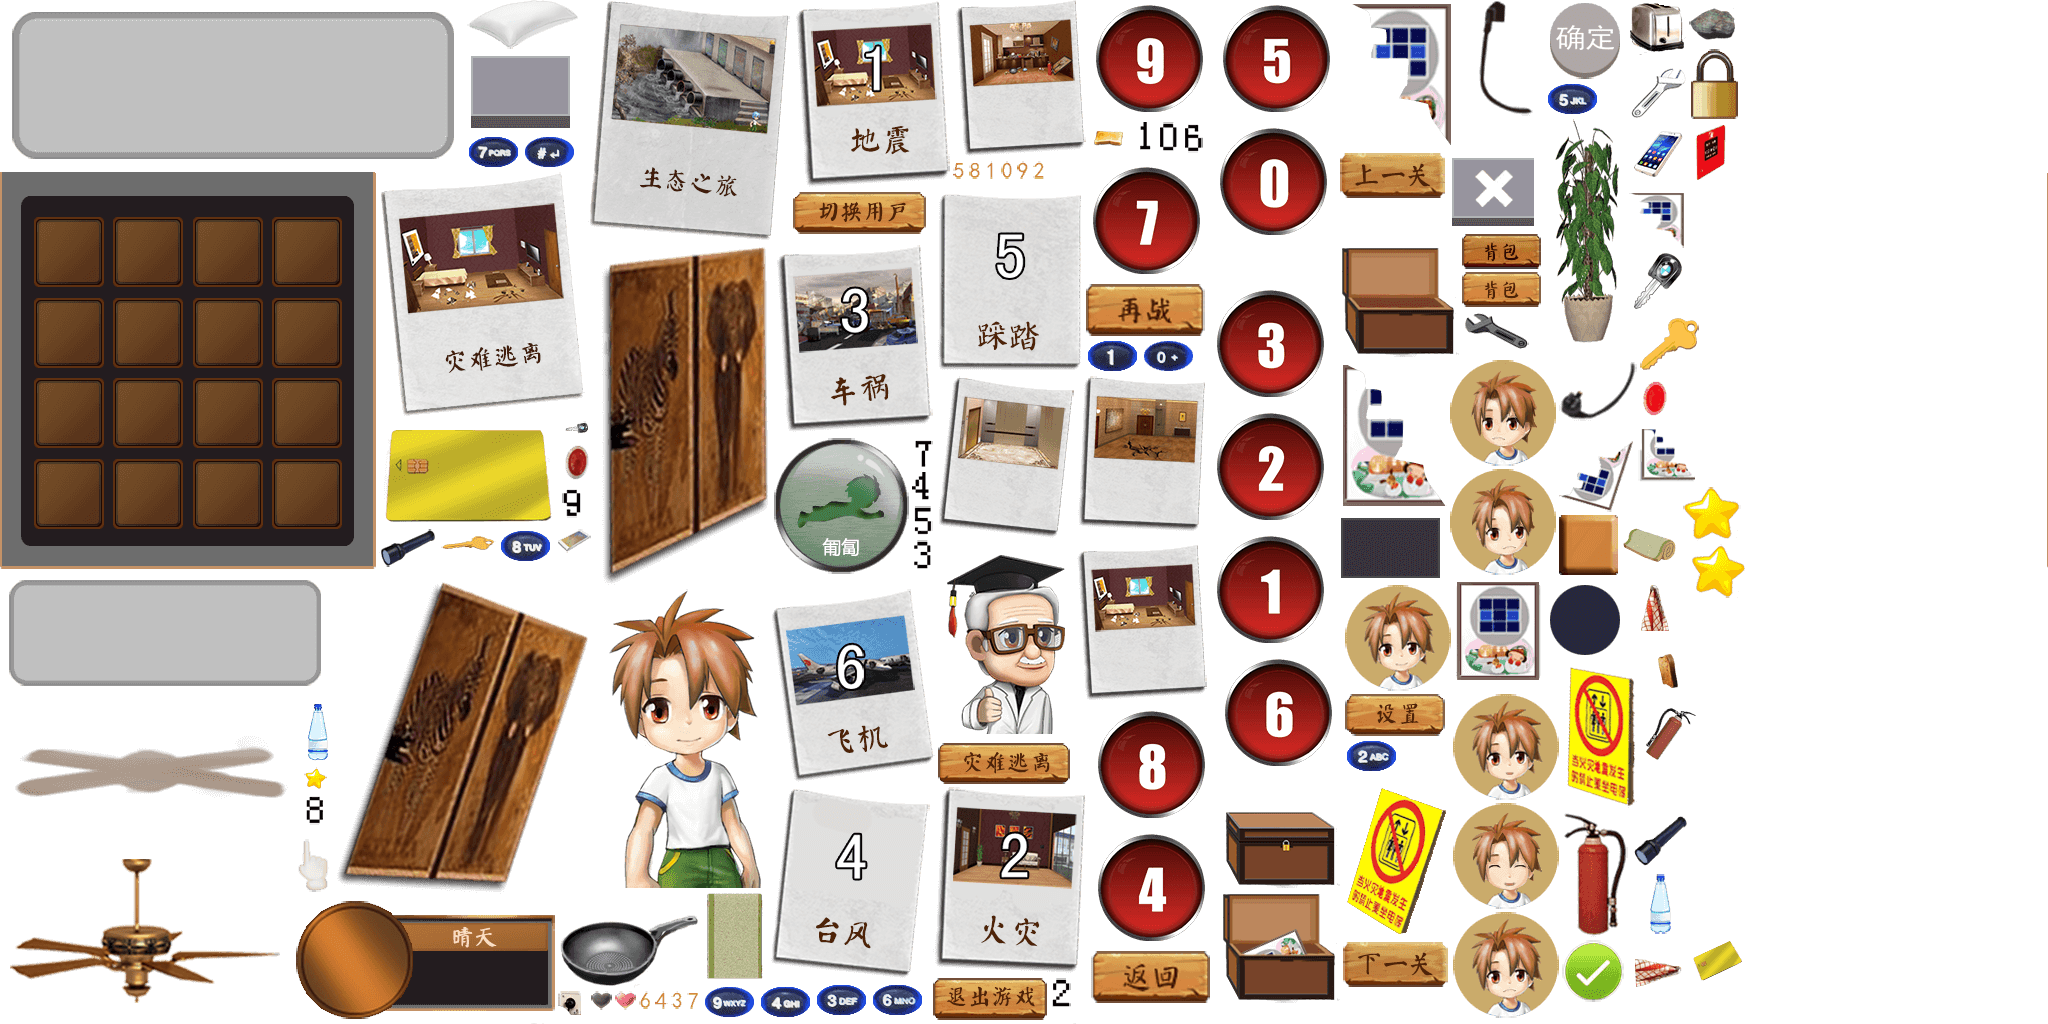
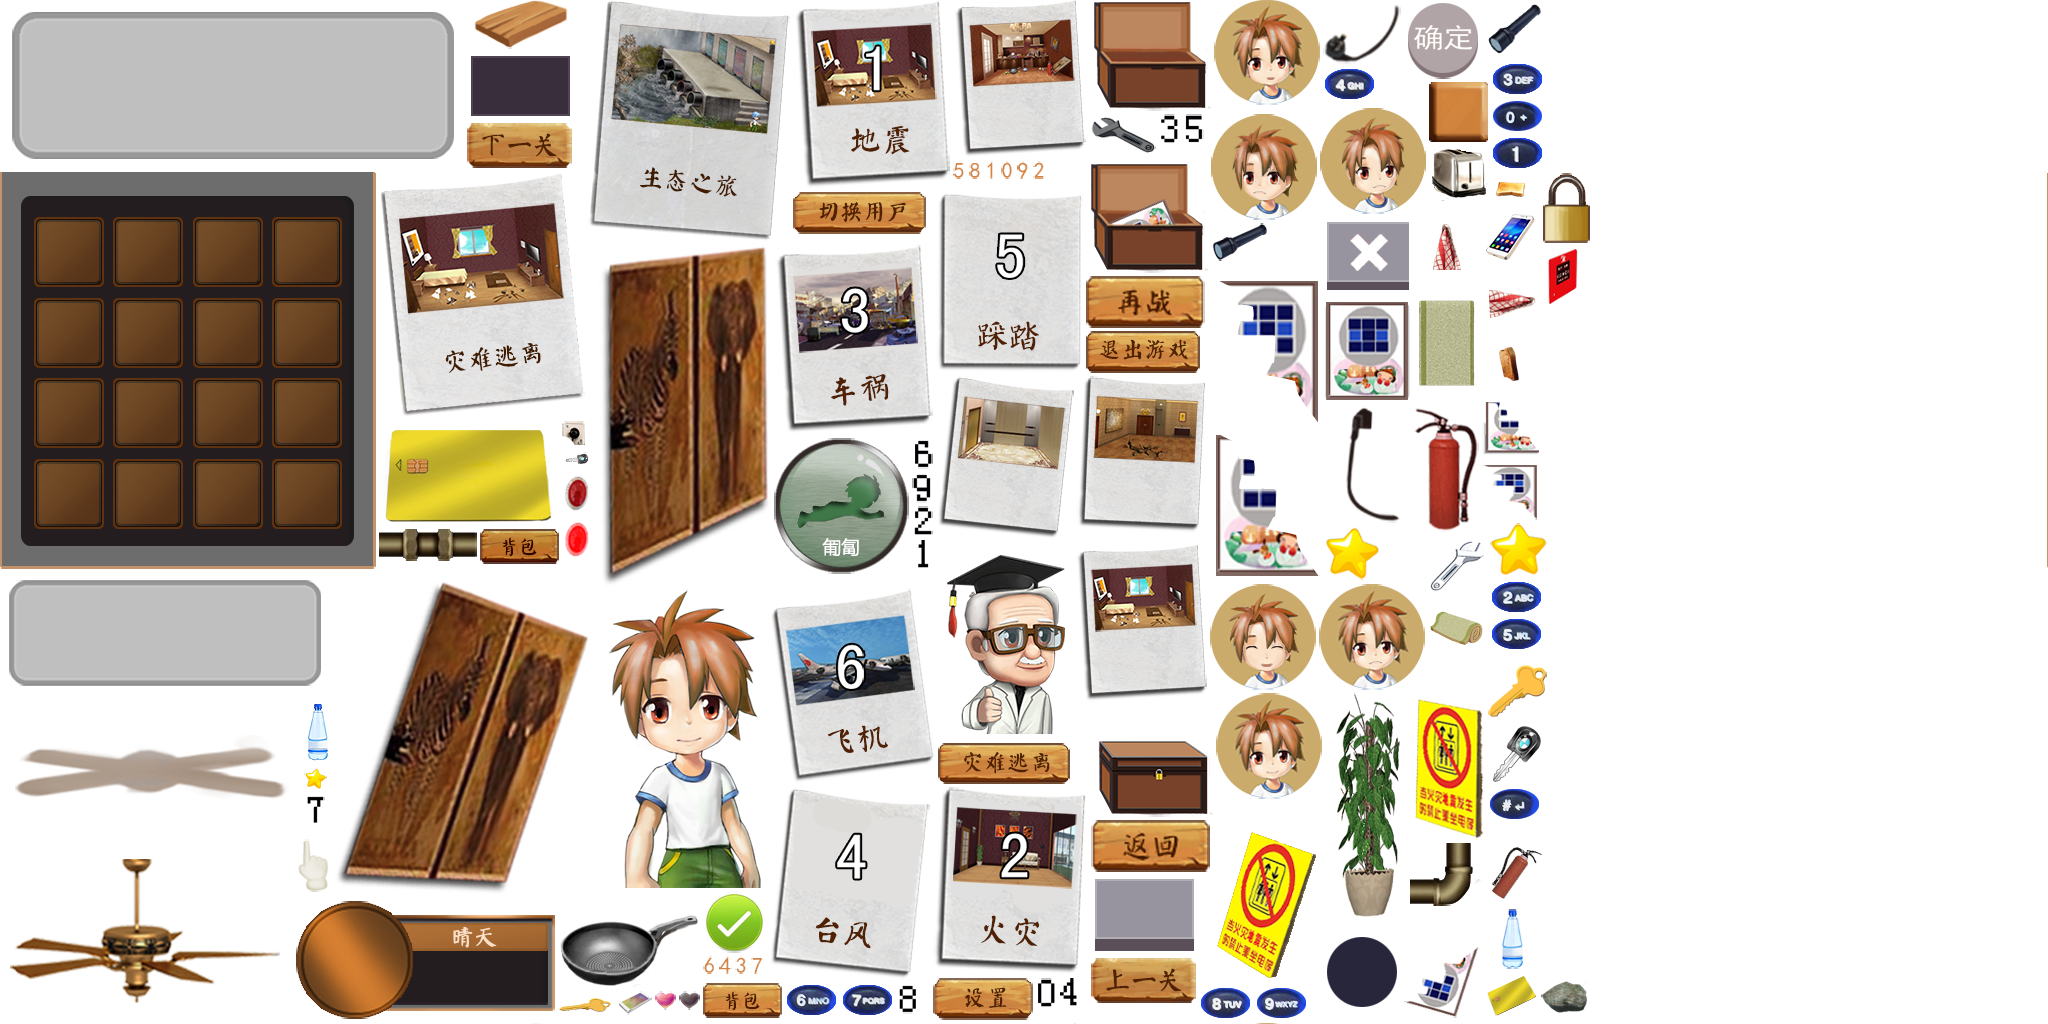
add pipe png

diff --git a/bak/js/data/configdata.js b/bak/js/data/configdata.js
@@ -15,7 +15,7 @@ game.configdata = new function(){
 	//loading images
 	self.DOWNLOADLIST_PNGS = ['bedroomafter.png', 'bedroombefore.png', 'boyactions.png', 'breakbridge.png', 'carglass.png', 'carmeter.png', 'carsafetybelt.png', 'circlebridge.png', 'cookieroom.png', 'corridor.png', 'corridorrbg.png', 'depot.png', 'drawer.png', 'effect2.png', 'effects.png', 'fallobjs.png', 'firecorridor.jpg', 'fireglassbg.png', 'gameover.png', 'gasolinecar.png', 'hfireeffect.png', 'interlude.png', 'mainbg.png', 'passwordbg.png', 'right.png', 'saloon.png', 'shakecorridor.jpg', 'telbg.png', 'uimap.png', 'washroombg.png', 'waterbasin.jpg', 'wwboyactions.png'];
 	//objects
-	self.IMAGEDATA_1 = {"telnum02":[1051,979,19,29],"pass04":[770,788,159,191],"flower":[1545,120,80,232],"ragicon":[1628,579,57,58],"iconnum06":[1219,654,122,118],"lockbox":[1219,777,120,110],"halfpic01":[1344,0,108,149],"wallpaper02":[600,246,170,339],"backbtn":[1092,952,117,50],"pankey":[442,530,53,26],"holepic":[1455,579,87,103],"tel6":[872,984,51,32],"overhalfpic":[1560,425,74,86],"iconnum00":[1214,123,122,118],"right":[1563,941,60,60],"tel8":[500,530,51,32],"pass05":[937,193,145,179],"smallplug":[559,992,28,26],"bedroompass":[1076,544,130,157],"plug2":[1560,357,76,63],"annihilator":[1563,812,64,124],"headicon2":[1346,586,104,104],"iphone":[556,530,34,22],"boxkeyicon":[1641,315,57,58],"telnum06":[1183,123,19,29],"telnum09":[563,488,19,29],"towelicon":[1622,516,57,58],"toolsbg":[0,173,375,395],"whitenum09":[1018,162,11,16],"iconnum05":[1217,0,122,118],"iconnum09":[1090,0,122,118],"nextpass":[1344,943,103,43],"ragonfloor":[1628,941,57,58],"spannericon":[1630,63,57,58],"pan":[559,902,140,85],"telnum03":[913,541,19,29],"telnum00":[1159,123,19,29],"tel7":[468,136,51,32],"hand_001":[297,840,33,51],"whitenum02":[1034,162,11,16],"whitenum03":[672,992,11,16],"iconnum01":[1211,531,122,118],"firelamp2":[1641,378,28,41],"whitenum07":[688,992,11,16],"toaster":[1628,0,57,58],"tel5":[1547,83,51,32],"breadicon":[1641,642,57,58],"pass02":[934,788,153,186],"passbtndown":[468,53,106,78],"tel4":[760,986,51,32],"fanshader":[0,701,300,134],"iconnum03":[1211,285,122,118],"iconnum02":[1211,408,122,118],"prepass":[1341,154,103,43],"whitenum05":[954,162,11,16],"breadonfloor":[1090,123,40,30],"pass03":[775,246,157,188],"tilebg":[0,573,330,123],"telnum08":[305,795,19,29],"firewarnbtn":[1692,123,36,60],"plug1":[1457,0,85,115],"headok01":[1454,695,104,104],"drinkicon":[1632,875,57,58],"boy":[600,590,165,297],"telnum04":[913,473,19,29],"doctorhead":[939,544,132,195],"halfpic02":[1338,361,108,149],"headfail0":[1454,913,104,104],"ceilingfan1":[0,840,292,171],"headbg":[297,902,257,116],"wallpaper01":[335,573,260,324],"whitenum06":[640,992,11,16],"openbox":[1219,892,120,110],"heart02":[616,992,19,17],"pillow":[468,0,111,48],"whitenum00":[1002,162,11,16],"headfail2":[1454,913,104,104],"warnpaper01":[1563,662,73,145],"suo":[1692,50,45,68],"tel9":[704,986,51,32],"doorcard":[380,422,178,103],"bedroomglim":[380,530,57,36],"start01":[1690,545,56,52],"tryagain":[1087,285,117,50],"tel0":[1143,340,51,32],"surebtn2":[1547,579,76,78],"doctorbg":[0,0,463,168],"emptybox":[1338,246,120,110],"storebtn2":[1463,273,77,33],"phoneicon":[1630,126,57,58],"start02":[1684,488,56,52],"firelamp1":[563,442,28,41],"iconnum07":[1087,162,122,118],"tel3":[816,984,51,32],"surebtn1":[1547,0,76,78],"corridorpass":[1078,377,128,155],"carkey":[563,422,28,15],"headfail3":[1451,470,104,104],"whitenum04":[656,992,11,16],"quitbt":[934,979,112,40],"iconnum08":[1092,706,122,118],"pass06":[770,590,164,193],"warnpaper02":[1344,777,105,161],"liftpass":[937,377,136,162],"telnum05":[913,507,19,29],"crawlbtn":[775,439,133,134],"panspanner":[1463,311,65,40],"whitenum08":[970,162,11,16],"iconnum04":[1092,829,122,118],"telenter":[524,136,51,32],"killfireicon":[1641,705,57,58],"cookiepass":[954,0,131,157],"telnum07":[913,439,19,29],"pass01":[794,0,155,188],"carkeyicon":[1630,252,57,58],"towel":[704,892,61,89],"btnchangeuser":[794,193,131,40],"whitenum01":[986,162,11,16],"stoneicon":[1690,0,50,45],"setup":[1346,695,98,40],"tel1":[1087,340,51,32],"tel2":[1346,740,51,32],"bedroomdrink":[305,701,25,62],"largepass02":[380,173,204,244],"telnum01":[1135,123,19,29],"pass01btn":[939,744,130,39],"largepass01":[589,0,200,241],"storebtn1":[1463,235,77,33],"halfpic01icon":[1639,425,57,58],"smallstar":[305,768,21,22],"doorcardicon":[1690,938,53,45],"shader":[1560,516,57,58],"heart01":[592,992,19,17],"halfpic02icon":[1630,189,57,58],"lockpanelexit":[1449,154,91,76],"passbtnup":[1338,515,106,66],"headfail1":[1451,361,104,104],"glimicon":[1632,812,57,58],"headok02":[1454,804,104,104]};
+	self.IMAGEDATA_1 = {"telnum02":[913,507,19,29],"pass04":[770,788,159,191],"flower":[1326,694,80,232],"ragicon":[1420,218,57,58],"lockbox":[1092,706,120,110],"halfpic01":[1211,277,108,149],"wallpaper02":[600,246,170,339],"backbtn":[1092,821,117,50],"tel1":[1492,137,51,32],"pankey":[559,992,53,26],"holepic":[1324,299,87,103],"tel6":[786,984,51,32],"overhalfpic":[1405,931,74,86],"right":[704,892,60,60],"tel8":[1200,987,51,32],"pass05":[937,193,145,179],"btnchangeuser":[794,193,131,40],"plug2":[1324,0,76,63],"annihilator":[1414,407,64,124],"headicon2":[1217,694,104,104],"iphone":[617,992,34,22],"boxkeyicon":[1489,662,57,58],"telnum06":[913,439,19,29],"telnum09":[913,473,19,29],"towelicon":[1429,599,57,58],"toolsbg":[0,173,375,395],"whitenum09":[1018,162,11,16],"nextpass":[468,124,103,43],"ragonfloor":[1482,272,57,58],"pan":[559,902,140,85],"telnum03":[1160,115,19,29],"telnum00":[1037,979,19,29],"tel7":[842,984,51,32],"hand_001":[297,840,33,51],"whitenum02":[1034,162,11,16],"whitenum03":[736,957,11,16],"firelamp2":[563,519,28,41],"whitenum07":[752,957,11,16],"toaster":[1430,146,57,58],"tel5":[1491,618,51,32],"breadicon":[1482,335,57,58],"pass02":[934,788,153,186],"passbtndown":[1092,876,106,78],"tel4":[1324,68,51,32],"fanshader":[0,701,300,134],"prepass":[1092,959,103,43],"pipe":[380,530,96,30],"whitenum05":[954,162,11,16],"breadonfloor":[1492,174,40,30],"pass03":[775,246,157,188],"tilebg":[0,573,330,123],"telnum08":[898,984,19,29],"firewarnbtn":[1544,247,36,60],"plug1":[1324,407,85,115],"headok01":[1215,0,104,104],"drinkicon":[1484,910,57,58],"boy":[600,590,165,297],"telnum04":[1061,979,19,29],"doctorhead":[939,544,132,195],"halfpic02":[1211,431,108,149],"headfail0":[1320,585,104,104],"ceilingfan1":[0,840,292,171],"headbg":[297,902,257,116],"wallpaper01":[335,573,260,324],"whitenum06":[704,957,11,16],"openbox":[1087,162,120,110],"heart02":[656,992,19,17],"pillow":[468,0,111,48],"whitenum00":[1002,162,11,16],"headfail2":[1320,585,104,104],"warnpaper01":[1411,694,73,145],"suo":[1544,174,45,68],"tel9":[1256,987,51,32],"doorcard":[380,422,178,103],"bedroomglim":[1212,224,57,36],"start01":[1324,527,56,52],"tryagain":[1087,277,117,50],"tel0":[1492,100,51,32],"surebtn2":[1324,931,76,78],"doctorbg":[0,0,463,168],"emptybox":[1090,0,120,110],"storebtn2":[704,984,77,33],"phoneicon":[1482,209,57,58],"start02":[1491,524,56,52],"firelamp1":[563,473,28,41],"spannericon":[1429,536,57,58],"tel3":[1492,63,51,32],"surebtn1":[1405,0,76,78],"corridorpass":[1078,377,128,155],"carkey":[563,453,28,15],"headfail3":[1321,109,104,104],"whitenum04":[720,957,11,16],"quitbt":[1087,332,112,40],"pass06":[770,590,164,193],"warnpaper02":[1214,821,105,161],"liftpass":[937,377,136,162],"telnum05":[1184,115,19,29],"crawlbtn":[775,439,133,134],"panspanner":[1090,115,65,40],"whitenum08":[970,162,11,16],"telenter":[1489,788,51,32],"killfireicon":[1487,844,57,58],"cookiepass":[954,0,131,157],"telnum07":[305,795,19,29],"pass01":[794,0,155,188],"carkeyicon":[1489,725,57,58],"towel":[1416,299,61,89],"elbow":[1411,844,71,61],"smallplug":[563,422,28,26],"whitenum01":[986,162,11,16],"stoneicon":[1542,973,50,45],"setup":[934,979,98,40],"bedroompass":[1076,544,130,157],"tel2":[1491,581,51,32],"bedroomdrink":[305,701,25,62],"largepass02":[380,173,204,244],"telnum01":[913,541,19,29],"pass01btn":[939,744,130,39],"largepass01":[589,0,200,241],"storebtn1":[481,530,77,33],"halfpic01icon":[1483,398,57,58],"smallstar":[305,768,21,22],"doorcardicon":[1484,973,53,45],"shader":[1430,83,57,58],"heart01":[680,992,19,17],"halfpic02icon":[1483,461,57,58],"lockpanelexit":[1324,218,91,76],"passbtnup":[468,53,106,66],"headfail1":[1212,115,104,104],"glimicon":[1486,0,57,58],"headok02":[1211,585,104,104]};
 
 	//effects
 	self.IMAGEDATA_2={"smog03":[526,384,110,105],"starteffect08":[234,278,146,139],"smog01":[526,174,110,105],"smog08":[526,69,110,105],"starteffect12":[234,834,146,139],"starteffect13":[380,0,146,139],"starteffect11":[234,695,146,139],"starteffect07":[234,417,146,139],"starteffect04":[234,556,146,139],"annihilatoreffect06":[0,320,234,160],"annihilatoreffect02":[0,800,234,160],"annihilatoreffect03":[0,640,234,160],"shandian_00002":[636,316,84,71],"annihilatoreffect01":[0,0,234,160],"fire4":[526,0,128,69],"starteffect09":[380,695,146,139],"smog02":[526,279,110,105],"smog07":[636,69,110,105],"smog05":[526,594,110,105],"smog04":[526,489,110,105],"extinguish1":[507,972,127,52],"starteffect10":[380,556,146,139],"extinguish3":[0,960,127,52],"starteffect05":[234,0,146,139],"annihilatoreffect04":[0,480,234,160],"starteffect06":[234,139,146,139],"shandian_00004":[636,387,84,71],"shandian_00005":[636,245,84,71],"shandian_00006":[636,529,84,71],"shandian_00001":[636,174,84,71],"smog06":[526,699,110,105],"xiaodianhua_00005":[127,960,64,64],"starteffect01":[380,417,146,139],"starteffect02":[380,278,146,139],"extinguish4":[380,972,127,52],"shandian_00003":[636,458,84,71],"fire3":[508,834,128,69],"fire1":[380,834,128,69],"xiaodianhua_00001":[636,664,64,64],"xiaodianhua_00006":[636,600,64,64],"extinguish2":[634,972,127,52],"annihilatoreffect05":[0,160,234,160],"fire2":[380,903,128,69],"starteffect03":[380,139,146,139],"fire5":[508,903,128,69]};

diff --git a/bak/new_file.js b/bak/new_file.js
@@ -1,1 +1,1 @@
-{"telnum02":[1051,979,19,29],"pass04":[770,788,159,191],"flower":[1545,120,80,232],"ragicon":[1628,579,57,58],"iconnum06":[1219,654,122,118],"lockbox":[1219,777,120,110],"halfpic01":[1344,0,108,149],"wallpaper02":[600,246,170,339],"backbtn":[1092,952,117,50],"pankey":[442,530,53,26],"holepic":[1455,579,87,103],"tel6":[872,984,51,32],"overhalfpic":[1560,425,74,86],"iconnum00":[1214,123,122,118],"right":[1563,941,60,60],"tel8":[500,530,51,32],"pass05":[937,193,145,179],"smallplug":[559,992,28,26],"bedroompass":[1076,544,130,157],"plug2":[1560,357,76,63],"annihilator":[1563,812,64,124],"headicon2":[1346,586,104,104],"iphone":[556,530,34,22],"boxkeyicon":[1641,315,57,58],"telnum06":[1183,123,19,29],"telnum09":[563,488,19,29],"towelicon":[1622,516,57,58],"toolsbg":[0,173,375,395],"whitenum09":[1018,162,11,16],"iconnum05":[1217,0,122,118],"iconnum09":[1090,0,122,118],"nextpass":[1344,943,103,43],"ragonfloor":[1628,941,57,58],"spannericon":[1630,63,57,58],"pan":[559,902,140,85],"telnum03":[913,541,19,29],"telnum00":[1159,123,19,29],"tel7":[468,136,51,32],"hand_001":[297,840,33,51],"whitenum02":[1034,162,11,16],"whitenum03":[672,992,11,16],"iconnum01":[1211,531,122,118],"firelamp2":[1641,378,28,41],"whitenum07":[688,992,11,16],"toaster":[1628,0,57,58],"tel5":[1547,83,51,32],"breadicon":[1641,642,57,58],"pass02":[934,788,153,186],"passbtndown":[468,53,106,78],"tel4":[760,986,51,32],"fanshader":[0,701,300,134],"iconnum03":[1211,285,122,118],"iconnum02":[1211,408,122,118],"prepass":[1341,154,103,43],"whitenum05":[954,162,11,16],"breadonfloor":[1090,123,40,30],"pass03":[775,246,157,188],"tilebg":[0,573,330,123],"telnum08":[305,795,19,29],"firewarnbtn":[1692,123,36,60],"plug1":[1457,0,85,115],"headok01":[1454,695,104,104],"drinkicon":[1632,875,57,58],"boy":[600,590,165,297],"telnum04":[913,473,19,29],"doctorhead":[939,544,132,195],"halfpic02":[1338,361,108,149],"headfail0":[1454,913,104,104],"ceilingfan1":[0,840,292,171],"headbg":[297,902,257,116],"wallpaper01":[335,573,260,324],"whitenum06":[640,992,11,16],"openbox":[1219,892,120,110],"heart02":[616,992,19,17],"pillow":[468,0,111,48],"whitenum00":[1002,162,11,16],"headfail2":[1454,913,104,104],"warnpaper01":[1563,662,73,145],"suo":[1692,50,45,68],"tel9":[704,986,51,32],"doorcard":[380,422,178,103],"bedroomglim":[380,530,57,36],"start01":[1690,545,56,52],"tryagain":[1087,285,117,50],"tel0":[1143,340,51,32],"surebtn2":[1547,579,76,78],"doctorbg":[0,0,463,168],"emptybox":[1338,246,120,110],"storebtn2":[1463,273,77,33],"phoneicon":[1630,126,57,58],"start02":[1684,488,56,52],"firelamp1":[563,442,28,41],"iconnum07":[1087,162,122,118],"tel3":[816,984,51,32],"surebtn1":[1547,0,76,78],"corridorpass":[1078,377,128,155],"carkey":[563,422,28,15],"headfail3":[1451,470,104,104],"whitenum04":[656,992,11,16],"quitbt":[934,979,112,40],"iconnum08":[1092,706,122,118],"pass06":[770,590,164,193],"warnpaper02":[1344,777,105,161],"liftpass":[937,377,136,162],"telnum05":[913,507,19,29],"crawlbtn":[775,439,133,134],"panspanner":[1463,311,65,40],"whitenum08":[970,162,11,16],"iconnum04":[1092,829,122,118],"telenter":[524,136,51,32],"killfireicon":[1641,705,57,58],"cookiepass":[954,0,131,157],"telnum07":[913,439,19,29],"pass01":[794,0,155,188],"carkeyicon":[1630,252,57,58],"towel":[704,892,61,89],"btnchangeuser":[794,193,131,40],"whitenum01":[986,162,11,16],"stoneicon":[1690,0,50,45],"setup":[1346,695,98,40],"tel1":[1087,340,51,32],"tel2":[1346,740,51,32],"bedroomdrink":[305,701,25,62],"largepass02":[380,173,204,244],"telnum01":[1135,123,19,29],"pass01btn":[939,744,130,39],"largepass01":[589,0,200,241],"storebtn1":[1463,235,77,33],"halfpic01icon":[1639,425,57,58],"smallstar":[305,768,21,22],"doorcardicon":[1690,938,53,45],"shader":[1560,516,57,58],"heart01":[592,992,19,17],"halfpic02icon":[1630,189,57,58],"lockpanelexit":[1449,154,91,76],"passbtnup":[1338,515,106,66],"headfail1":[1451,361,104,104],"glimicon":[1632,812,57,58],"headok02":[1454,804,104,104]};
+{"telnum02":[913,507,19,29],"pass04":[770,788,159,191],"flower":[1326,694,80,232],"ragicon":[1420,218,57,58],"lockbox":[1092,706,120,110],"halfpic01":[1211,277,108,149],"wallpaper02":[600,246,170,339],"backbtn":[1092,821,117,50],"tel1":[1492,137,51,32],"pankey":[559,992,53,26],"holepic":[1324,299,87,103],"tel6":[786,984,51,32],"overhalfpic":[1405,931,74,86],"right":[704,892,60,60],"tel8":[1200,987,51,32],"pass05":[937,193,145,179],"btnchangeuser":[794,193,131,40],"plug2":[1324,0,76,63],"annihilator":[1414,407,64,124],"headicon2":[1217,694,104,104],"iphone":[617,992,34,22],"boxkeyicon":[1489,662,57,58],"telnum06":[913,439,19,29],"telnum09":[913,473,19,29],"towelicon":[1429,599,57,58],"toolsbg":[0,173,375,395],"whitenum09":[1018,162,11,16],"nextpass":[468,124,103,43],"ragonfloor":[1482,272,57,58],"pan":[559,902,140,85],"telnum03":[1160,115,19,29],"telnum00":[1037,979,19,29],"tel7":[842,984,51,32],"hand_001":[297,840,33,51],"whitenum02":[1034,162,11,16],"whitenum03":[736,957,11,16],"firelamp2":[563,519,28,41],"whitenum07":[752,957,11,16],"toaster":[1430,146,57,58],"tel5":[1491,618,51,32],"breadicon":[1482,335,57,58],"pass02":[934,788,153,186],"passbtndown":[1092,876,106,78],"tel4":[1324,68,51,32],"fanshader":[0,701,300,134],"prepass":[1092,959,103,43],"pipe":[380,530,96,30],"whitenum05":[954,162,11,16],"breadonfloor":[1492,174,40,30],"pass03":[775,246,157,188],"tilebg":[0,573,330,123],"telnum08":[898,984,19,29],"firewarnbtn":[1544,247,36,60],"plug1":[1324,407,85,115],"headok01":[1215,0,104,104],"drinkicon":[1484,910,57,58],"boy":[600,590,165,297],"telnum04":[1061,979,19,29],"doctorhead":[939,544,132,195],"halfpic02":[1211,431,108,149],"headfail0":[1320,585,104,104],"ceilingfan1":[0,840,292,171],"headbg":[297,902,257,116],"wallpaper01":[335,573,260,324],"whitenum06":[704,957,11,16],"openbox":[1087,162,120,110],"heart02":[656,992,19,17],"pillow":[468,0,111,48],"whitenum00":[1002,162,11,16],"headfail2":[1320,585,104,104],"warnpaper01":[1411,694,73,145],"suo":[1544,174,45,68],"tel9":[1256,987,51,32],"doorcard":[380,422,178,103],"bedroomglim":[1212,224,57,36],"start01":[1324,527,56,52],"tryagain":[1087,277,117,50],"tel0":[1492,100,51,32],"surebtn2":[1324,931,76,78],"doctorbg":[0,0,463,168],"emptybox":[1090,0,120,110],"storebtn2":[704,984,77,33],"phoneicon":[1482,209,57,58],"start02":[1491,524,56,52],"firelamp1":[563,473,28,41],"spannericon":[1429,536,57,58],"tel3":[1492,63,51,32],"surebtn1":[1405,0,76,78],"corridorpass":[1078,377,128,155],"carkey":[563,453,28,15],"headfail3":[1321,109,104,104],"whitenum04":[720,957,11,16],"quitbt":[1087,332,112,40],"pass06":[770,590,164,193],"warnpaper02":[1214,821,105,161],"liftpass":[937,377,136,162],"telnum05":[1184,115,19,29],"crawlbtn":[775,439,133,134],"panspanner":[1090,115,65,40],"whitenum08":[970,162,11,16],"telenter":[1489,788,51,32],"killfireicon":[1487,844,57,58],"cookiepass":[954,0,131,157],"telnum07":[305,795,19,29],"pass01":[794,0,155,188],"carkeyicon":[1489,725,57,58],"towel":[1416,299,61,89],"elbow":[1411,844,71,61],"smallplug":[563,422,28,26],"whitenum01":[986,162,11,16],"stoneicon":[1542,973,50,45],"setup":[934,979,98,40],"bedroompass":[1076,544,130,157],"tel2":[1491,581,51,32],"bedroomdrink":[305,701,25,62],"largepass02":[380,173,204,244],"telnum01":[913,541,19,29],"pass01btn":[939,744,130,39],"largepass01":[589,0,200,241],"storebtn1":[481,530,77,33],"halfpic01icon":[1483,398,57,58],"smallstar":[305,768,21,22],"doorcardicon":[1484,973,53,45],"shader":[1430,83,57,58],"heart01":[680,992,19,17],"halfpic02icon":[1483,461,57,58],"lockpanelexit":[1324,218,91,76],"passbtnup":[468,53,106,66],"headfail1":[1212,115,104,104],"glimicon":[1486,0,57,58],"headok02":[1211,585,104,104]};
